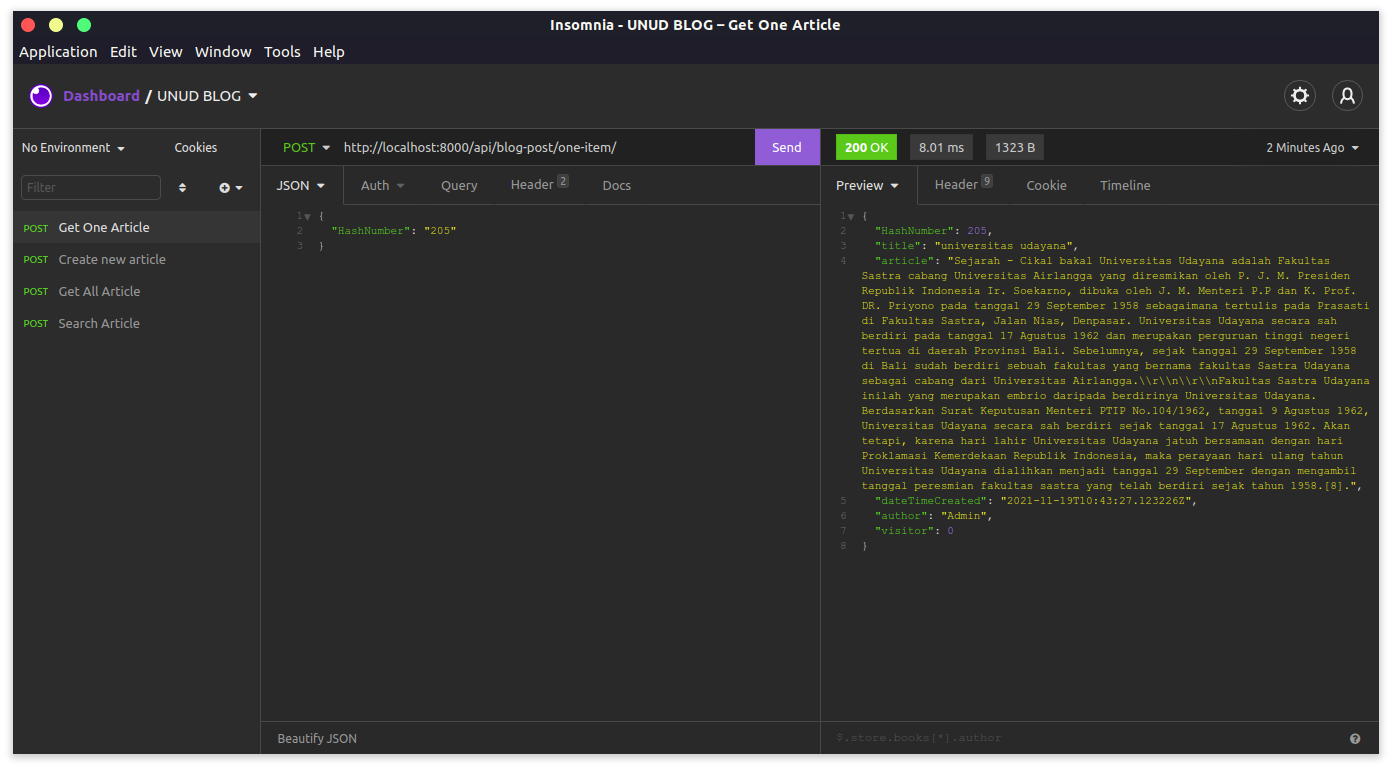
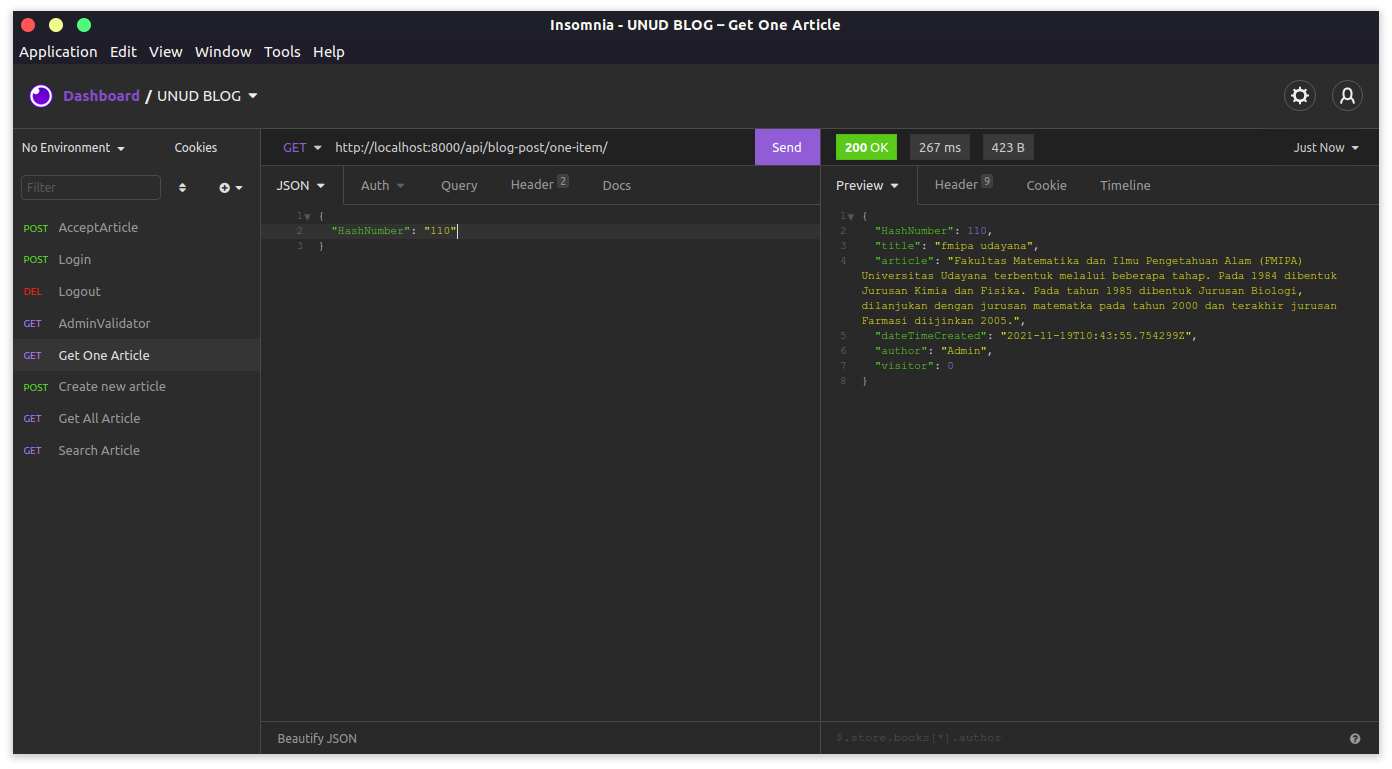
Endpoint method

diff --git a/PostBlog/viewset_api.py b/PostBlog/viewset_api.py
@@ -8,18 +8,18 @@ from CreateNewPost import ultilites
 
 # Create your views here.
 
-@api_view(['POST'])
+@api_view(['GET'])
 def PostBlogSetView(request, format=None):
-    if (str(request.method).lower() == 'post'):
+    if (str(request.method).lower() == 'get'):
         blogs = BlogMainDatabase.objects.filter(acceptByAdmin=True)
         serializer = BlogSerializers(blogs, many=True)
         return Response(serializer.data)
     else:
         return Response(status=status.HTTP_405_METHOD_NOT_ALLOWED)
 
-@api_view(['POST'])
+@api_view(['GET'])
 def PostBlogOneItem(request, format=None):
-    if (str(request.method).lower() == 'post'):
+    if (str(request.method).lower() == 'get'):
         try:
             try:
                 bodyRequest = json.loads(request.body.decode('utf-8'))
@@ -34,9 +34,9 @@ def PostBlogOneItem(request, format=None):
     else:
         return Response(status=status.HTTP_405_METHOD_NOT_ALLOWED)
 
-@api_view(['POST'])
+@api_view(['GET'])
 def SearchArticle(request):
-    if (str(request.method).lower() == 'post'):
+    if (str(request.method).lower() == 'get'):
         try:
             bodyRequest = json.loads(request.body.decode('utf-8'))
             keyword = str(bodyRequest['keyword']).lower()

diff --git a/adminValidator/viewset_api.py b/adminValidator/viewset_api.py
@@ -33,7 +33,7 @@ class antrianArticle:
         return self.dataQueue
 
 # Create your views here.
-@api_view(['GET', 'POST'])
+@api_view(['GET'])
 def adminValidatorViewSet(request):
     dataResponse = {
         'status': 'OK'
@@ -42,12 +42,12 @@ def adminValidatorViewSet(request):
     dataSerializer = queueArticleSerialize(queueKu.getAllQueue(), many=True)
     return Response(dataSerializer.data)
 
-@api_view(['POST'])
+@api_view(['GET'])
 def login(request):
-    if ('usernamePOST' in request.POST and 'passwordPOST' in request.POST):
+    if ('usernamePOST' in request.body and 'passwordPOST' in request.body):
         result = authenticate(
-            username=request.POST['usernamePOST'],
-            password=request.POST['passwordPOST'],
+            username=request.body['usernamePOST'],
+            password=request.body['passwordPOST'],
         )
         if (result is not None):
             sessionPart = SessionStore()
@@ -58,7 +58,7 @@ def login(request):
     else:
         return HttpResponse(status=status.HTTP_400_BAD_REQUEST)
 
-@api_view(['POST'])
+@api_view(['DELETE'])
 def logout(request):
     if ('sessionID' in request.headers):
         try:

diff --git a/README.md b/README.md
@@ -1,4 +1,4 @@
-# Application Program Website Blog Unud
+<h1 align="center">Stories Blog Udayana</h1>
 <p align="center"><img align="center" src="https://upload.wikimedia.org/wikipedia/id/2/2d/Logo-unud-baru.png"></p>
 Kumpulan artikel seputar Universitas Udayana.
 
@@ -23,7 +23,7 @@ python manage.py runserver
 #### 
 
 ```http
-   [POST] /api/blog-post/
+   [GET] /api/blog-post/
 ```
 #### Requirements
 | Header | Type     | Description                       |
@@ -31,42 +31,14 @@ python manage.py runserver
 | `token`      | `string` | **Required** |
 
 #### Response Example
-
-```javascript
-[
-  {
-    "HashNumber": 59,
-    "title": "teknik udayana",
-    "article": "Fakultas Teknik Universitas Udayana secara resmi berdiri pada tanggal 1 Oktober 1965 dengan Surat Keputusan Menteri PTIP No. 248/Sek/P.U/1965, tanggal 20 Oktober 1965, yang terdiri dari dua jurusan yaitu Jurusan Arsitektur dan Jurusan Seni Rupa. Sebagai latar belakang pendirian Fakultas Teknik Universitas Udayana, adalah dalam rangka pelestarian, pengembangan kebudayaan Daerah Bali pada khususnya dan kebudayaan nasional pada umumnya, terutama di dalam menghadapi pembangunan dan perkembangan kepariwisataan.",
-    "dateTimeCreated": "2021-11-19T10:40:40.842714Z",
-    "author": "Jeremi",
-    "visitor": 0
-  },
-  {
-    "HashNumber": 205,
-    "title": "universitas udayana",
-    "article": "Sejarah - Cikal bakal Universitas Udayana adalah Fakultas Sastra cabang Universitas Airlangga yang diresmikan oleh P. J. M. Presiden Republik Indonesia Ir. Soekarno, dibuka oleh J. M. Menteri P.P dan K. Prof. DR. Priyono pada tanggal 29 September 1958 sebagaimana tertulis pada Prasasti di Fakultas Sastra, Jalan Nias, Denpasar. Universitas Udayana secara sah berdiri pada tanggal 17 Agustus 1962 dan merupakan perguruan tinggi negeri tertua di daerah Provinsi Bali. Sebelumnya, sejak tanggal 29 September 1958 di Bali sudah berdiri sebuah fakultas yang bernama fakultas Sastra Udayana sebagai cabang dari Universitas Airlangga.\\r\\n\\r\\nFakultas Sastra Udayana inilah yang merupakan embrio daripada berdirinya Universitas Udayana. Berdasarkan Surat Keputusan Menteri PTIP No.104/1962, tanggal 9 Agustus 1962, Universitas Udayana secara sah berdiri sejak tanggal 17 Agustus 1962. Akan tetapi, karena hari lahir Universitas Udayana jatuh bersamaan dengan hari Proklamasi Kemerdekaan Republik Indonesia, maka perayaan hari ulang tahun Universitas Udayana dialihkan menjadi tanggal 29 September dengan mengambil tanggal peresmian fakultas sastra yang telah berdiri sejak tahun 1958.[8].",
-    "dateTimeCreated": "2021-11-19T10:43:27.123226Z",
-    "author": "Admin",
-    "visitor": 0
-  },
-  {
-    "HashNumber": 110,
-    "title": "fmipa udayana",
-    "article": "Fakultas Matematika dan Ilmu Pengetahuan Alam (FMIPA) Universitas Udayana terbentuk melalui beberapa tahap. Pada 1984 dibentuk Jurusan Kimia dan Fisika. Pada tahun 1985 dibentuk Jurusan Biologi, dilanjukan dengan jurusan matematka pada tahun 2000 dan terakhir jurusan Farmasi diijinkan 2005.",
-    "dateTimeCreated": "2021-11-19T10:43:55.754299Z",
-    "author": "Admin",
-    "visitor": 0
-  }
-]
-```
+![img.png](static/img_7.png)
 
 #### 
 <h3 align="center">2. Get One Article [GUEST]</h3>
 <h4 align="center">URL : https://unud-blog.herokuapp.com/api/blog-post/one-item/ </h4>
 
 ```http
-  [POST] /api/blog-post/one-item/
+  [GET] /api/blog-post/one-item/
 ```
 #### Requirements
 | JSON Body | Type     | Description                       |
@@ -85,7 +57,7 @@ python manage.py runserver
 <h4 align="center">URL : https://unud-blog.herokuapp.com/api/search/ </h4>
 
 ```http
-  [POST] /api/search/
+  [GET] /api/search/
 ```
 #### Requirements
 | JSON Body | Type     | Description                       |
@@ -120,11 +92,11 @@ python manage.py runserver
 
 #### 
 <h3 align="center">---------------------- Page Validator Article ------------------------</h3>
-<h3 align="center">Get All Article</h3>
+<h3 align="center">Get All Article [ADMIN]</h3>
 <h4 align="center">URL : https://unud-blog.herokuapp.com/api/adminValidator/ </h4>
 
 ```http
-  [GET/POST] /api/adminValidator/
+  [GET] /api/adminValidator/
 ```
 #### Requirements 
 | Header | Type     | Description            | Catatan |
@@ -134,11 +106,11 @@ python manage.py runserver
 #### Response Example
 ![img.png](static/img_5.png)
 
-<h3 align="center">Accept Article</h3>
+<h3 align="center">Accept Article [ADMIN]</h3>
 <h4 align="center">URL : https://unud-blog.herokuapp.com/api/acceptArticle/ </h4>
 
 ```http
-  [GET/POST] /api/acceptArticle/
+  [POST] /api/acceptArticle/
 ```
 #### Requirements 
 | Multipart | Type     | Description                       |
@@ -156,7 +128,7 @@ python manage.py runserver
 <h4 align="center">URL : https://unud-blog.herokuapp.com/api/login/ </h4>
 
 ```http
-  [POST] /api/login/
+  [GET] /api/login/
 ```
 #### Requirements 
 | Mutipart | Type     | Description            |
@@ -171,7 +143,7 @@ python manage.py runserver
 <h4 align="center">URL : https://unud-blog.herokuapp.com/api/logout/ </h4>
 
 ```http
-  [POST] /api/logout/
+  [DELETE] /api/logout/
 ```
 #### Requirements 
 | Header | Type     | Description            |
